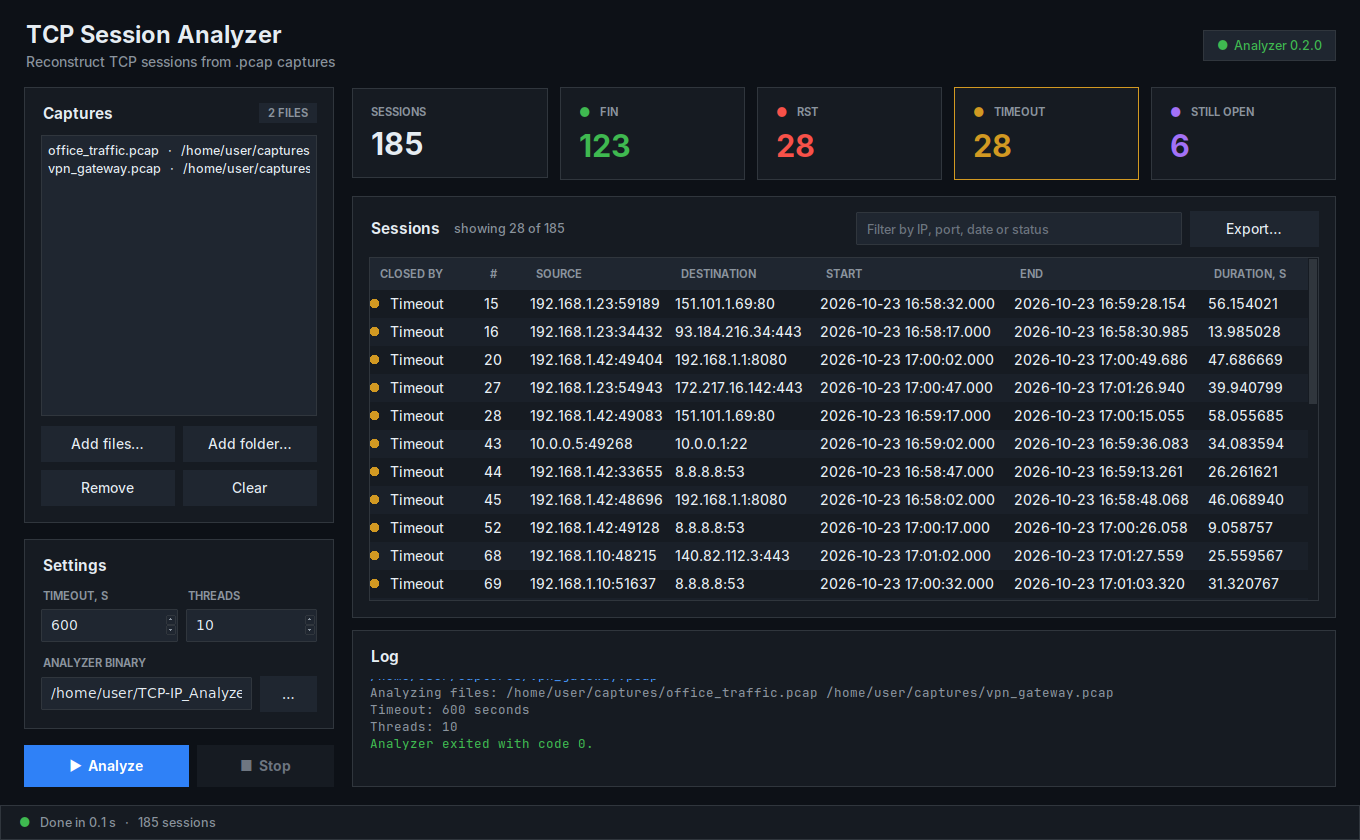
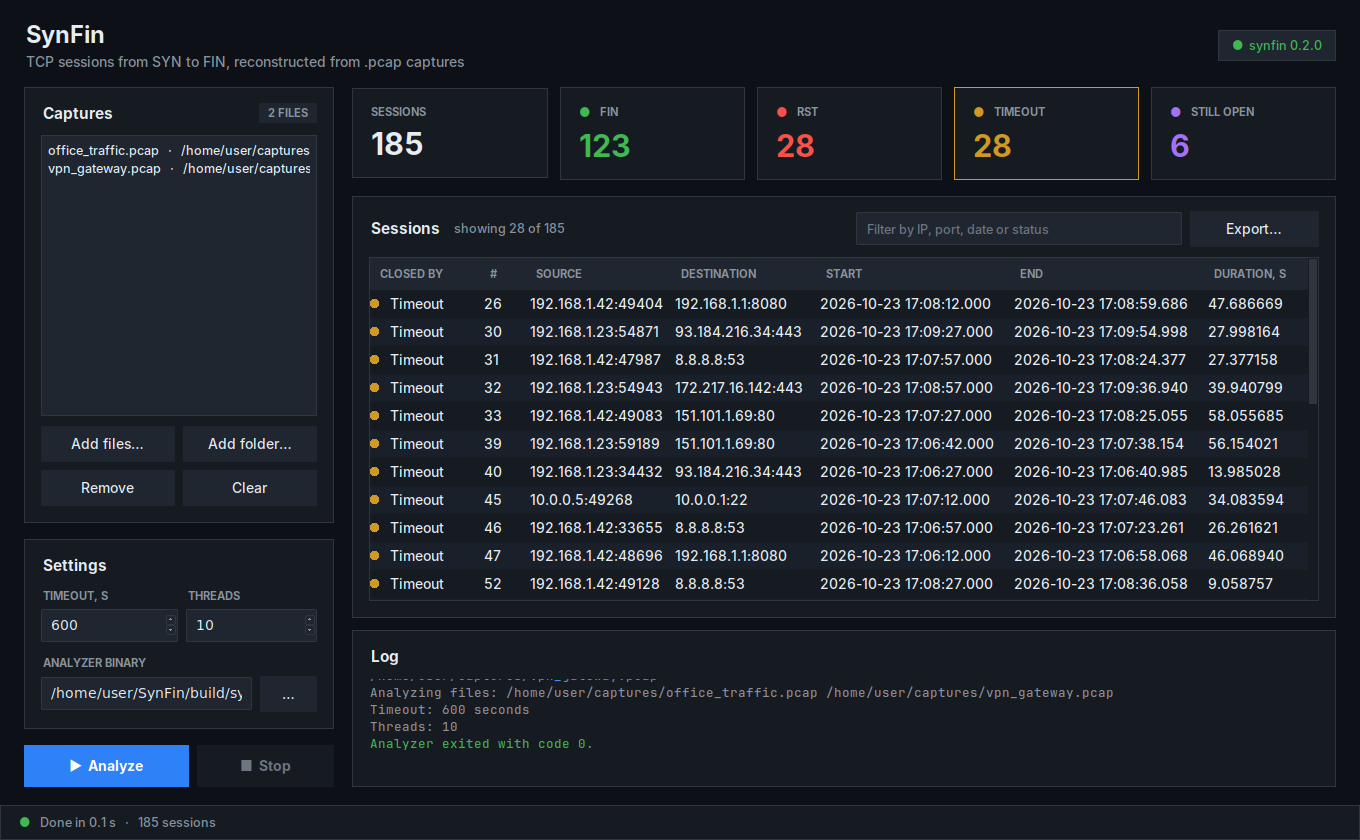
Rename the project to SynFin
- Binary: TCP_Analysis -> synfin (CMake project SynFin); --version prints
  "synfin <version>".
- Sources: TCP_Analysis.cpp -> synfin.cpp, Session_Analyzed.h ->
  session_analyzer.h, TCP_IP_Header.h -> tcp_ip_headers.h.
- GUI: gui/tcp_analyzer_gui.py -> gui/synfin_gui.py, titled SynFin; it looks
  for build/synfin, ./synfin or synfin on PATH, and still recognizes the
  version of an older TCP_Analysis binary.
- README, test script and screenshots use the new names; the README notes
  the former name and links to github.com/konerai/SynFin.

diff --git a/gui/synfin_gui.py b/gui/synfin_gui.py
@@ -1,7 +1,7 @@
 #!/usr/bin/env python3
-"""TCP Session Analyzer: a desktop GUI for the TCP_Analysis command-line tool.
+"""SynFin: a desktop GUI for the synfin TCP session analyzer.
 
-Runs the TCP_Analysis binary on the chosen .pcap files and shows every
+Runs the synfin binary on the chosen .pcap files and shows every
 reported TCP session in a table. Needs only Python 3 with Tkinter
 (Debian/Ubuntu: sudo apt-get install python3-tk).
 """
@@ -21,8 +21,8 @@ from tkinter import filedialog, messagebox, ttk
 
 PROJECT_DIR = os.path.dirname(os.path.dirname(os.path.abspath(__file__)))
 BINARY_CANDIDATES = [
-    os.path.join(PROJECT_DIR, "build", "TCP_Analysis"),
-    os.path.join(PROJECT_DIR, "TCP_Analysis"),
+    os.path.join(PROJECT_DIR, "build", "synfin"),
+    os.path.join(PROJECT_DIR, "synfin"),
 ]
 PCAP_EXTENSIONS = (".pcap",)
 ROWS_PER_TICK = 2000  # keep the UI responsive on huge captures
@@ -70,7 +70,7 @@ def find_default_binary():
     for path in BINARY_CANDIDATES:
         if os.path.isfile(path) and os.access(path, os.X_OK):
             return path
-    return shutil.which("TCP_Analysis") or BINARY_CANDIDATES[0]
+    return shutil.which("synfin") or BINARY_CANDIDATES[0]
 
 
 def status_key(session):
@@ -120,7 +120,7 @@ def shorten_home(path):
 class AnalyzerApp:
     def __init__(self, root):
         self.root = root
-        self.root.title("TCP Session Analyzer")
+        self.root.title("SynFin — TCP Session Analyzer")
         self.root.geometry("1360x840")
         self.root.minsize(1100, 680)
         self.root.configure(bg=BG)
@@ -269,8 +269,8 @@ class AnalyzerApp:
         header.pack(fill=tk.X, padx=24, pady=(18, 14))
         titles = tk.Frame(header, bg=BG)
         titles.pack(side=tk.LEFT)
-        tk.Label(titles, text="TCP Session Analyzer", font=self.f_title, bg=BG, fg=TEXT).pack(anchor="w")
-        tk.Label(titles, text="Reconstruct TCP sessions from .pcap captures", font=self.f_base,
+        tk.Label(titles, text="SynFin", font=self.f_title, bg=BG, fg=TEXT).pack(anchor="w")
+        tk.Label(titles, text="TCP sessions from SYN to FIN, reconstructed from .pcap captures", font=self.f_base,
                  bg=BG, fg=MUTED).pack(anchor="w")
         self.version_pill = tk.Label(header, font=self.f_small, bg=RAISED, fg=MUTED, padx=12, pady=5,
                                      highlightthickness=1, highlightbackground=BORDER)
@@ -485,7 +485,7 @@ class AnalyzerApp:
     # ---------- analyzer binary ----------
 
     def _choose_binary(self):
-        path = filedialog.askopenfilename(title="Select TCP_Analysis binary", initialdir=PROJECT_DIR)
+        path = filedialog.askopenfilename(title="Select the synfin binary", initialdir=PROJECT_DIR)
         if path:
             self.binary_var.set(path)
             self._check_binary()
@@ -498,8 +498,8 @@ class AnalyzerApp:
         text = "Analyzer ready"
         try:
             out = subprocess.run([binary, "--version"], capture_output=True, text=True, timeout=3)
-            if out.returncode == 0 and out.stdout.startswith("TCP_Analysis"):
-                text = "Analyzer " + out.stdout.split()[-1]
+            if out.returncode == 0 and out.stdout.startswith(("synfin", "TCP_Analysis")):
+                text = "synfin " + out.stdout.split()[-1]
         except (OSError, subprocess.SubprocessError):
             pass
         self.version_pill.configure(text=f"●  {text}", fg=STATUSES["fin"][1])

diff --git a/tests/test_sessions.py b/tests/test_sessions.py
@@ -1,10 +1,10 @@
 #!/usr/bin/env python3
-"""End-to-end test for TCP_Analysis.
+"""End-to-end test for synfin.
 
 Writes a synthetic capture with known sessions, runs the analyzer on it and
 checks every reported session. Uses only the Python standard library.
 
-Usage: python3 tests/test_sessions.py [path/to/TCP_Analysis]
+Usage: python3 tests/test_sessions.py [path/to/synfin]
 """
 
 import json
@@ -151,7 +151,7 @@ def check(sessions, expected):
 
 def main():
     root = os.path.dirname(os.path.dirname(os.path.abspath(__file__)))
-    binary = sys.argv[1] if len(sys.argv) > 1 else os.path.join(root, "build", "TCP_Analysis")
+    binary = sys.argv[1] if len(sys.argv) > 1 else os.path.join(root, "build", "synfin")
     cap, expected = build_capture()
     failed = False
     with tempfile.TemporaryDirectory() as tmp:

diff --git a/session_analyzer.h b/session_analyzer.h
@@ -1,5 +1,5 @@
-#ifndef SESSION_ANALYZED_H
-#define SESSION_ANALYZED_H
+#ifndef SESSION_ANALYZER_H
+#define SESSION_ANALYZER_H
 
 #include <pcap.h>
 #include <filesystem>
@@ -15,7 +15,7 @@
 #include <atomic>
 #include <endian.h>
 #include <vector>
-#include "TCP_IP_Header.h"
+#include "tcp_ip_headers.h"
 
 class SessionAnalyzer {
 public:
@@ -491,4 +491,4 @@ private:
     SessionKeyHash sessionKeyHasher;
 };
 
-#endif // SESSION_ANALYZED_H
+#endif // SESSION_ANALYZER_H

diff --git a/synfin.cpp b/synfin.cpp
@@ -1,4 +1,4 @@
-#include "Session_Analyzed.h"
+#include "session_analyzer.h"
 #include <boost/program_options.hpp>
 #include <algorithm>
 #include <filesystem>
@@ -41,7 +41,7 @@ int main(int argc, char* argv[]) {
     }
 
     if (vm.count("version")) {
-        std::cout << "TCP_Analysis " << kVersion << std::endl;
+        std::cout << "synfin " << kVersion << std::endl;
         return 0;
     }
 

diff --git a/tcp_ip_headers.h b/tcp_ip_headers.h
@@ -1,5 +1,5 @@
-#ifndef TCP_IP_HEADER_H
-#define TCP_IP_HEADER_H
+#ifndef TCP_IP_HEADERS_H
+#define TCP_IP_HEADERS_H
 
 #include <cstdint>
 
@@ -43,4 +43,4 @@ struct ether_header {
 };
 #pragma pack(pop)
 
-#endif //TCP_IP_HEADER_H
+#endif // TCP_IP_HEADERS_H

diff --git a/README.md b/README.md
@@ -1,11 +1,13 @@
-# TCP-IP_Analyzed
+# SynFin
 
-A multithreaded C++ tool that reads `.pcap` capture files, reconstructs TCP sessions from the raw packets, and reports each session — who opened it and to whom (IP and port), start/end timestamps, and how it ended: FIN, RST, idle timeout, or still open when the capture ended. It comes with two front ends:
+**TCP sessions from SYN to FIN.** SynFin is a multithreaded C++ tool that reads `.pcap` capture files, reconstructs TCP sessions from the raw packets, and reports each session — who opened it and to whom (IP and port), start/end timestamps, and how it ended: FIN, RST, idle timeout, or still open when the capture ended. It comes with two front ends:
 
-- **`TCP_Analysis`** — the command-line analyzer; prints one JSON object per session to `stdout`, ready to pipe into `jq`, a log shipper or a script.
-- **TCP Session Analyzer GUI** — a small desktop window (Python + Tkinter) that runs the analyzer for you and shows the sessions in a sortable, filterable table.
+- **`synfin`** — the command-line analyzer; prints one JSON object per session to `stdout`, ready to pipe into `jq`, a log shipper or a script.
+- **SynFin GUI** — a dark-themed desktop window (Python + Tkinter) that runs the analyzer for you and shows the sessions in a sortable, filterable table.
 
-![TCP Session Analyzer GUI with analysis results](docs/screenshots/02-results.png)
+![SynFin GUI with analysis results](docs/screenshots/02-results.png)
+
+> SynFin was called *TCP-IP_Analyzed* before v0.3.0, and its binary was `TCP_Analysis`.
 
 It's built for offline analysis of large packet captures: instead of loading a whole capture into memory, it streams packets from libpcap, shards them across worker threads by session, and emits results as soon as each session ends.
 
@@ -40,13 +42,13 @@ Other distributions with the same or newer library versions (Debian 12+, Linux M
 
 ## Download
 
-Ready-to-run builds for Linux x86_64 and ARM64 are attached to every [release](https://github.com/konerai/TCP-IP_Analyzed/releases/latest). Boost, jsoncpp and libpcap are built into the binary; it only needs glibc 2.34+ (Ubuntu 22.04+, Debian 12+, Fedora 35+, RHEL 9+) and `libdbus`, which every mainstream distribution ships.
+Ready-to-run builds for Linux x86_64 and ARM64 are attached to every [release](https://github.com/konerai/SynFin/releases/latest). Boost, jsoncpp and libpcap are built into the binary; it only needs glibc 2.34+ (Ubuntu 22.04+, Debian 12+, Fedora 35+, RHEL 9+) and `libdbus`, which every mainstream distribution ships.
 
 ```bash
-tar -xzf tcp-ip-analyzed-<version>-linux-x86_64.tar.gz
-cd tcp-ip-analyzed-<version>-linux-x86_64
-./TCP_Analysis --version
-python3 gui/tcp_analyzer_gui.py   # needs Tkinter, see below
+tar -xzf synfin-<version>-linux-x86_64.tar.gz
+cd synfin-<version>-linux-x86_64
+./synfin --version
+python3 gui/synfin_gui.py   # needs Tkinter, see below
 ```
 
 To build from source instead, read on.
@@ -87,24 +89,24 @@ sudo pacman -S base-devel cmake libpcap boost jsoncpp tk
 ## Building
 
 ```bash
-git clone https://github.com/konerai/TCP-IP_Analyzed.git
-cd TCP-IP_Analyzed
+git clone https://github.com/konerai/SynFin.git
+cd SynFin
 mkdir build && cd build
 cmake ..
 make
 ```
 
-This produces the `TCP_Analysis` binary in `build/`.
+This produces the `synfin` binary in `build/`.
 
 ## Graphical interface
 
-`gui/tcp_analyzer_gui.py` is a dark-themed desktop front end for the analyzer. Build the analyzer first (see above), then from the project root:
+`gui/synfin_gui.py` is a dark-themed desktop front end for the analyzer. Build the analyzer first (see above), then from the project root:
 
 ```bash
-python3 gui/tcp_analyzer_gui.py
+python3 gui/synfin_gui.py
 ```
 
-The GUI looks for the binary at `build/TCP_Analysis` (then `./TCP_Analysis`, then `TCP_Analysis` on `PATH`); another one can be chosen under **Settings → Analyzer binary**. The badge in the top-right corner shows the analyzer's version, or *Analyzer not found* in red.
+The GUI looks for the binary at `build/synfin` (then `./synfin`, then `synfin` on `PATH`); another one can be chosen under **Settings → Analyzer binary**. The badge in the top-right corner shows the analyzer's version, or *Analyzer not found* in red.
 
 ![Main window before an analysis](docs/screenshots/01-start.png)
 
@@ -112,7 +114,7 @@ The GUI looks for the binary at `build/TCP_Analysis` (then `./TCP_Analysis`, the
 
 1. **Captures** — **Add files…** picks one or more `.pcap` files, **Add folder…** adds every `.pcap` file in a directory. **Remove** (or the <kbd>Delete</kbd> key) deletes the selected entries, **Clear** empties the list.
 2. **Settings** — **Timeout, s** is the idle time after which an unfinished session is reported as timed out (`--timeout`); **Threads** is the number of worker threads (`--threads`, defaults to the number of CPU cores).
-3. **Analyze** — runs `TCP_Analysis` on all listed files. A progress bar runs while it works and sessions appear in the table as they are reported; **Stop** terminates it early.
+3. **Analyze** — runs `synfin` on all listed files. A progress bar runs while it works and sessions appear in the table as they are reported; **Stop** terminates it early.
 4. **Explore and export** the results (see below).
 
 ### Summary tiles
@@ -157,13 +159,13 @@ Click a column header to sort by it, click again to reverse the order; an arrow 
 Analyze one or more capture files directly:
 
 ```bash
-./TCP_Analysis -i capture1.pcap capture2.pcap
+./synfin -i capture1.pcap capture2.pcap
 ```
 
 Or point it at a directory and it will pick up every `.pcap` file in it:
 
 ```bash
-./TCP_Analysis -d /path/to/captures/
+./synfin -d /path/to/captures/
 ```
 
 ### Options
@@ -183,7 +185,7 @@ Or point it at a directory and it will pick up every `.pcap` file in it:
 Before the sessions, the analyzer prints a few plain-text header lines (`Analyzing files: …`, `Timeout: …`, `Threads: …`) to `stdout`. Keep only the JSON lines when piping into other tools:
 
 ```bash
-./TCP_Analysis -i capture.pcap | grep '^{' | jq -r '"\(.source.ip):\(.source.port) -> \(.destination.ip):\(.destination.port)"'
+./synfin -i capture.pcap | grep '^{' | jq -r '"\(.source.ip):\(.source.port) -> \(.destination.ip):\(.destination.port)"'
 ```
 
 ## Output format
@@ -216,17 +218,17 @@ Each session is printed to `stdout` as a single-line JSON object:
    Sessions left open when the input ends are reported too, with `closed_by: "end_of_capture"`.
 5. **Output** – a dedicated output thread drains completed sessions from a lock-free queue and prints one JSON object per line to `stdout`, so results can be consumed while analysis is still running.
 
-The GUI is a thin wrapper: it starts `TCP_Analysis -t <timeout> -j <threads> -i <files…>` as a subprocess (through `stdbuf -oL` when available, so rows arrive line by line), parses each JSON line from `stdout` into a table row and shows everything else in the log.
+The GUI is a thin wrapper: it starts `synfin -t <timeout> -j <threads> -i <files…>` as a subprocess (through `stdbuf -oL` when available, so rows arrive line by line), parses each JSON line from `stdout` into a table row and shows everything else in the log.
 
 ## Project layout
 
 | Path | Contents |
 | --- | --- |
-| `TCP_Analysis.cpp` | Command-line entry point: option parsing, input file discovery |
-| `Session_Analyzed.h` | `SessionAnalyzer` — packet parsing, worker threads, session tracking, JSON output |
-| `TCP_IP_Header.h` | Packed Ethernet / IPv4 / TCP header structs and flag constants |
+| `synfin.cpp` | Command-line entry point: option parsing, input file discovery |
+| `session_analyzer.h` | `SessionAnalyzer` — packet parsing, worker threads, session tracking, JSON output |
+| `tcp_ip_headers.h` | Packed Ethernet / IPv4 / TCP header structs and flag constants |
 | `CMakeLists.txt` | Build configuration |
-| `gui/tcp_analyzer_gui.py` | Tkinter GUI |
+| `gui/synfin_gui.py` | Tkinter GUI |
 | `tests/test_sessions.py` | End-to-end test with a synthetic capture |
 | `docs/screenshots/` | Screenshots used in this README |
 
@@ -235,7 +237,7 @@ The GUI is a thin wrapper: it starts `TCP_Analysis -t <timeout> -j <threads> -i 
 `tests/test_sessions.py` writes a synthetic capture with known sessions (normal close with the final ACK, reset with trailing packets, port reuse, capture starting mid-handshake, a real timeout, a session still open at the end, and 300 background sessions, all dated years in the past) and checks every session the analyzer reports, with 1 and 4 worker threads:
 
 ```bash
-python3 tests/test_sessions.py build/TCP_Analysis
+python3 tests/test_sessions.py build/synfin
 ```
 
 ## Known limitations
